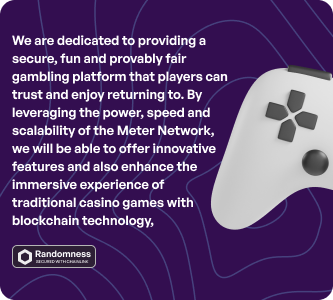
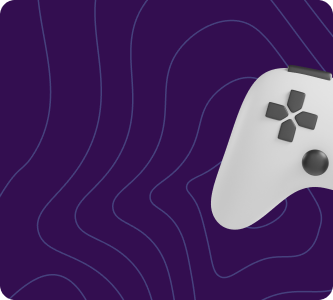
made changes

diff --git a/src/styles/global.css b/src/styles/global.css
@@ -27,6 +27,22 @@
   background-color: #180118;
 }
 
+.desc-wrapper{
+  background-image: url("../assets/desc-frame.png");
+  background-repeat: no-repeat;
+  background-position: 50% 50%;
+  background-size: cover;
+  background-color: #180118;
+}
+
+.utility-desc{
+  background-image: url("../assets/utility-desc.png");
+  background-repeat: no-repeat;
+  background-position: 50% 50%;
+  background-size: cover;
+  background-color: #180118;
+}
+
 
 body{
   font-family: "Poppins", sans-serif;
@@ -44,4 +60,19 @@ body{
     background-color: #180118;
   }
 
+  .desc-wrapper{
+  background-image: url("../assets/desc-frame-mobile.png");
+  background-repeat: no-repeat;
+  background-position: 50% 50%;
+  background-size: cover;
+  background-color: #180118;
+}
+
+.utility-desc{
+  background-image: url("../assets/utility-desc-mobile.png");
+  background-repeat: no-repeat;
+  background-position: 50% 50%;
+  background-size: cover;
+  background-color: #180118;
+}
 }
